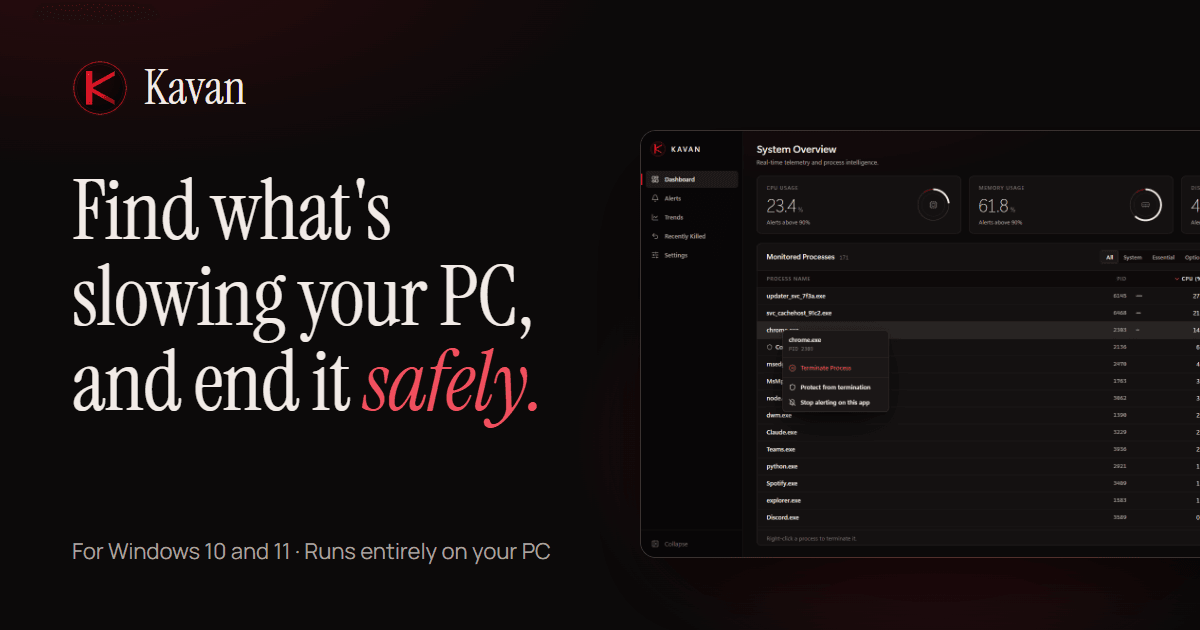
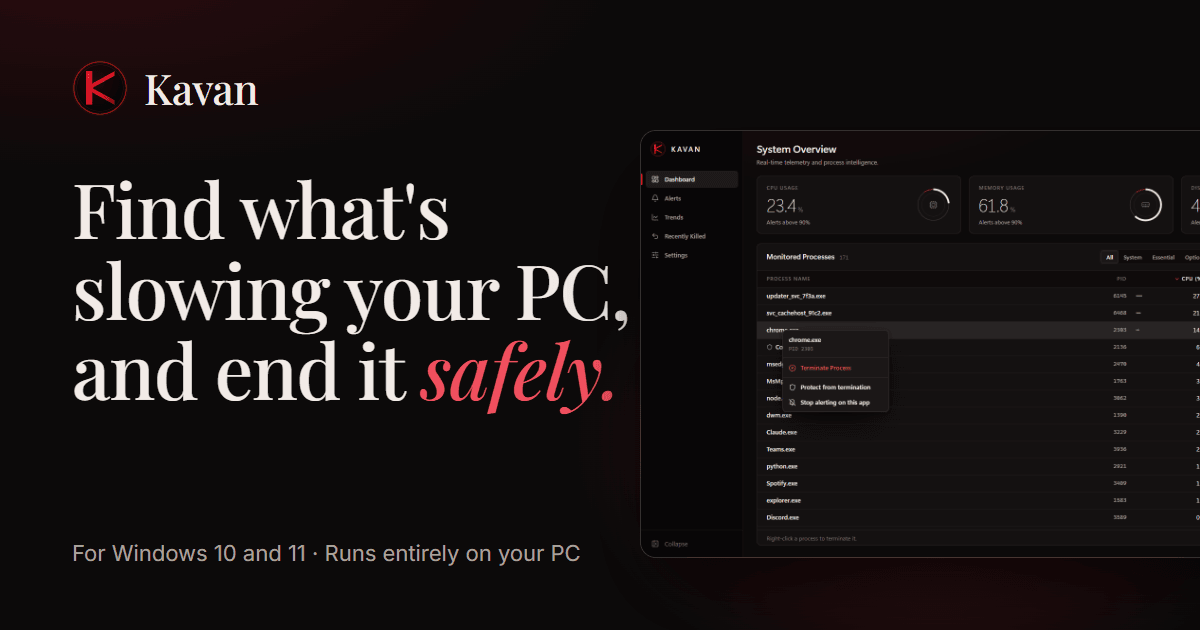
style(web): Playfair headlines, Inter text, and the Kavan name
Headlines move to Playfair Display with an italic crimson accent word, text to Inter. The visible name becomes Kavan in the hero, subline and footer. The sharing image is re-rendered with the new faces.

diff --git a/web/scripts/og.html b/web/scripts/og.html
@@ -13,7 +13,7 @@
     <link rel="preconnect" href="https://fonts.gstatic.com" crossorigin />
     <link
       rel="stylesheet"
-      href="https://fonts.googleapis.com/css2?family=Instrument+Serif:ital@0;1&family=Manrope:wght@400;600&display=swap"
+      href="https://fonts.googleapis.com/css2?family=Inter:wght@400;600&family=Playfair+Display:ital,wght@0,500;1,500&display=swap"
     />
     <style>
       * { box-sizing: border-box; margin: 0; }
@@ -22,7 +22,7 @@
         position: relative;
         background: #0c0a0a;
         color: #f2ebe7;
-        font-family: "Manrope", "Segoe UI", system-ui, sans-serif;
+        font-family: "Inter", "Segoe UI", system-ui, sans-serif;
       }
       h1 em { font-style: italic; color: #f2505f; }
       .glow {
@@ -31,9 +31,9 @@
           radial-gradient(520px 360px at 78% 70%, rgba(168, 20, 34, 0.42), transparent 70%),
           radial-gradient(760px 300px at 8% -6%, rgba(168, 20, 34, 0.2), transparent 70%);
       }
-      .brand { position: absolute; left: 72px; top: 60px; display: flex; align-items: center; gap: 16px; font-family: "Instrument Serif", Georgia, serif; font-size: 48px; line-height: 1; }
+      .brand { position: absolute; left: 72px; top: 60px; display: flex; align-items: center; gap: 16px; font-family: "Playfair Display", Georgia, serif; font-weight: 500; font-size: 42px; line-height: 1; letter-spacing: -0.01em; }
       .brand img { width: 56px; height: 56px; }
-      h1 { position: absolute; left: 72px; top: 168px; width: 540px; font-family: "Instrument Serif", Georgia, serif; font-weight: 400; font-size: 84px; line-height: 1.02; letter-spacing: -0.012em; }
+      h1 { position: absolute; left: 72px; top: 168px; width: 560px; font-family: "Playfair Display", Georgia, serif; font-weight: 500; font-size: 76px; line-height: 1.06; letter-spacing: -0.015em; }
       p { position: absolute; left: 72px; bottom: 64px; font-size: 22px; color: #aba29e; }
       .shot {
         position: absolute; left: 640px; top: 130px; width: 760px;

diff --git a/web/app/layout.tsx b/web/app/layout.tsx
@@ -1,20 +1,19 @@
 import type { Metadata, Viewport } from "next";
-import { Instrument_Serif, JetBrains_Mono, Manrope } from "next/font/google";
+import { Inter, JetBrains_Mono, Playfair_Display } from "next/font/google";
 import type { ReactNode } from "react";
 import { SmoothScroll } from "@/components/SmoothScroll";
 import { siteUrl } from "@/content/site";
 import "./globals.css";
 
 // Self-hosted by next/font at build time: the page makes no request to a font service.
-// Instrument Serif for the headlines, Manrope for text, JetBrains Mono for checksums and commands.
-const display = Instrument_Serif({
+// Playfair Display for the headlines, Inter for text, JetBrains Mono for checksums and commands.
+const display = Playfair_Display({
   variable: "--font-display-face",
-  weight: "400",
   style: ["normal", "italic"],
   subsets: ["latin"],
   display: "swap",
 });
-const text = Manrope({ variable: "--font-text", subsets: ["latin"], display: "swap" });
+const text = Inter({ variable: "--font-text", subsets: ["latin"], display: "swap" });
 const code = JetBrains_Mono({ variable: "--font-code", subsets: ["latin"], display: "swap" });
 
 const title = "Kavan: find what's slowing your PC, and end it safely";

diff --git a/web/content/site.ts b/web/content/site.ts
@@ -67,7 +67,7 @@ export const siteUrl = process.env.NEXT_PUBLIC_SITE_URL ?? "http://localhost:300
 
 export const pitch = "Find what's slowing your PC, and end it safely.";
 export const subline =
-  "KavanMCP watches your Windows system, explains what is using it up, and lets you or Claude close the right program, with a safety engine that can never touch the parts of Windows that keep it running.";
+  "Kavan watches your Windows system, explains what is using it up, and lets you or Claude close the right program, with a safety engine that can never touch the parts of Windows that keep it running.";
 
 /** Anything that points at the repository is hidden until the repository is public. */
 export const repoIsPublic = site.state !== "soon";

diff --git a/web/app/globals.css b/web/app/globals.css
@@ -181,13 +181,13 @@
     text-rendering: optimizeLegibility;
   }
 
-  /* Headlines are Instrument Serif, which has one weight: never make it bold, the browser would fake it */
+  /* Headlines: Playfair Display, medium weight, slightly tight tracking */
   h1,
   h2 {
     font-family: var(--font-display);
-    font-weight: 400;
-    letter-spacing: -0.012em;
-    line-height: 1.05;
+    font-weight: 500;
+    letter-spacing: -0.015em;
+    line-height: 1.08;
     text-wrap: balance;
   }
 
@@ -197,6 +197,7 @@
     text-wrap: balance;
   }
 
+  /* The accent word is Playfair italic in crimson */
   h1 em,
   h2 em {
     font-style: italic;

diff --git a/web/components/sections/Hero.tsx b/web/components/sections/Hero.tsx
@@ -20,7 +20,7 @@ export function Hero() {
       />
       <div className="wrap relative">
         <div className="mx-auto max-w-3xl text-center">
-          <p className="caps mb-5 text-crimson-ink">KavanMCP · for Windows</p>
+          <p className="caps mb-5 text-crimson-ink">Kavan · for Windows</p>
           <h1 id="hero-heading" className="text-5xl sm:text-6xl md:text-7xl">
             {lead} <em>{last}</em>
           </h1>

diff --git a/web/components/sections/Footer.tsx b/web/components/sections/Footer.tsx
@@ -66,7 +66,7 @@ export function Footer() {
         </div>
 
         <p className="mt-10 border-t border-line pt-6 text-sm text-ink-faint">
-          KavanMCP is an independent project. Claude is a product of Anthropic.
+          Kavan is an independent project. Claude is a product of Anthropic.
         </p>
       </div>
     </footer>
